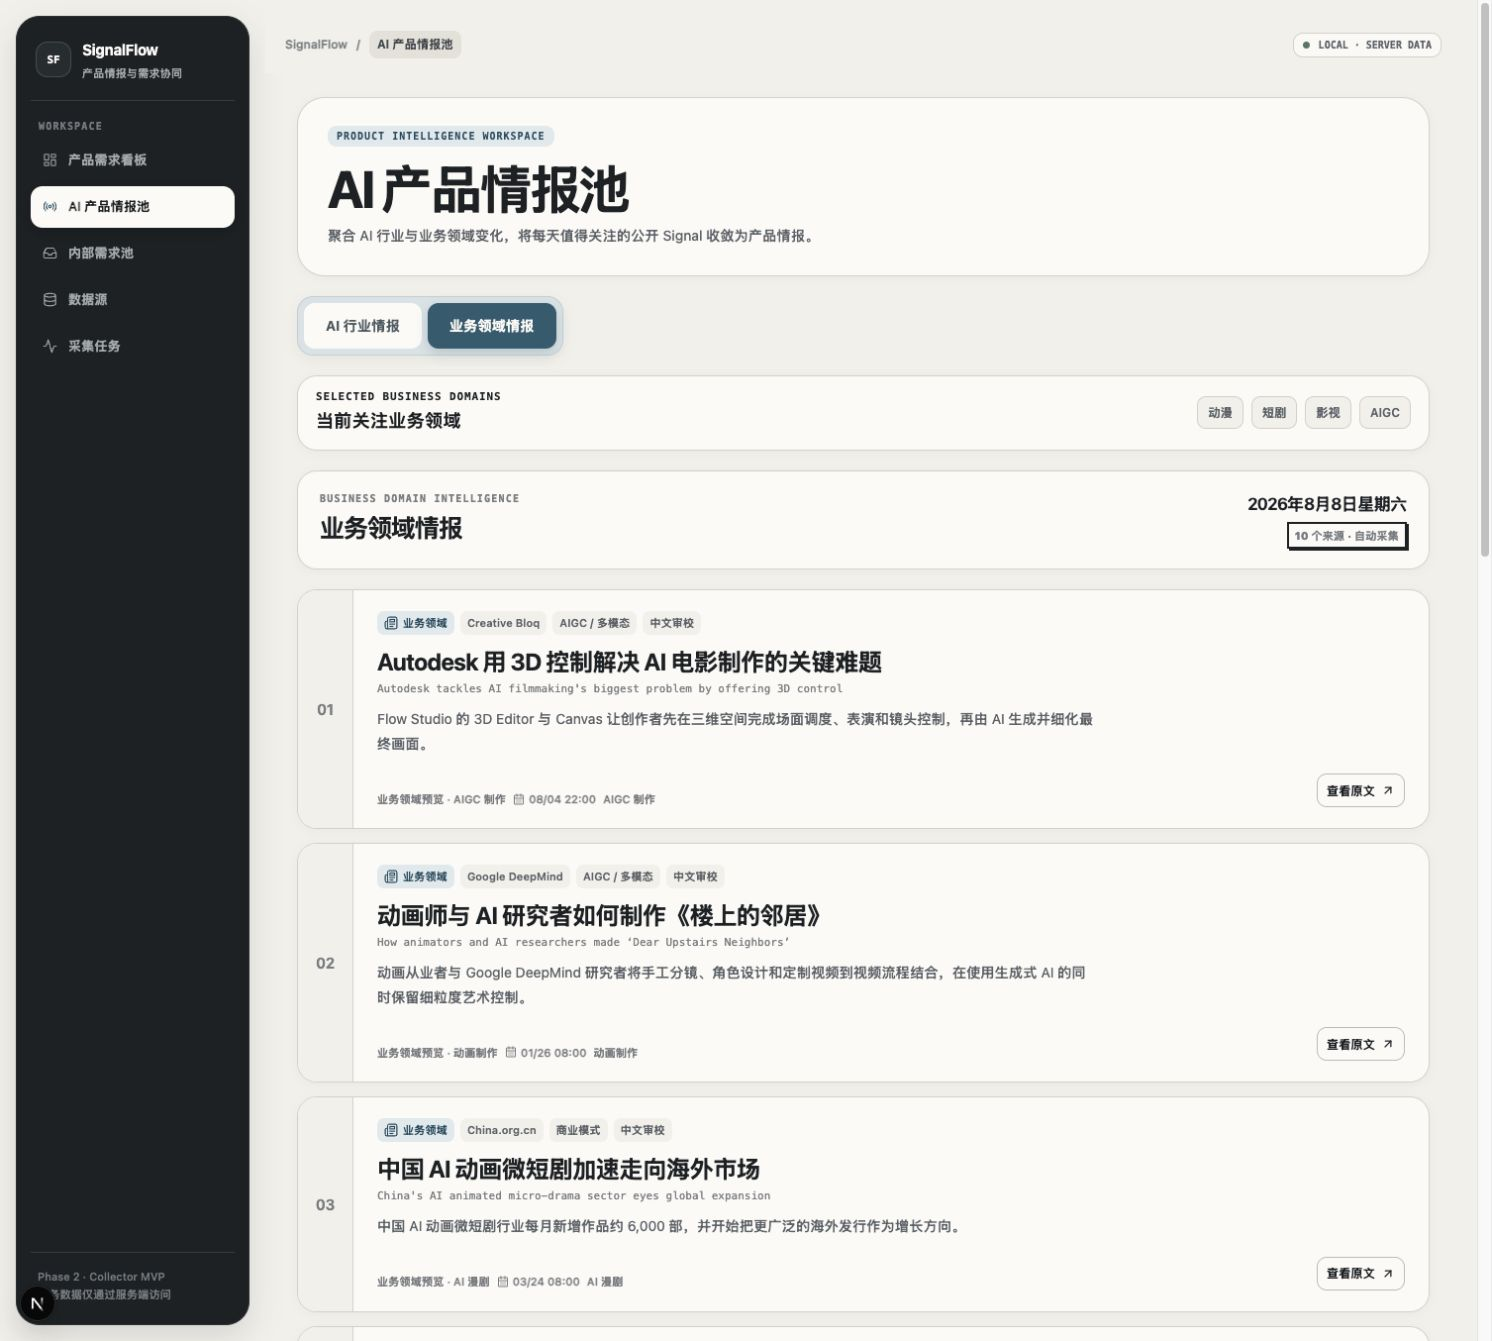
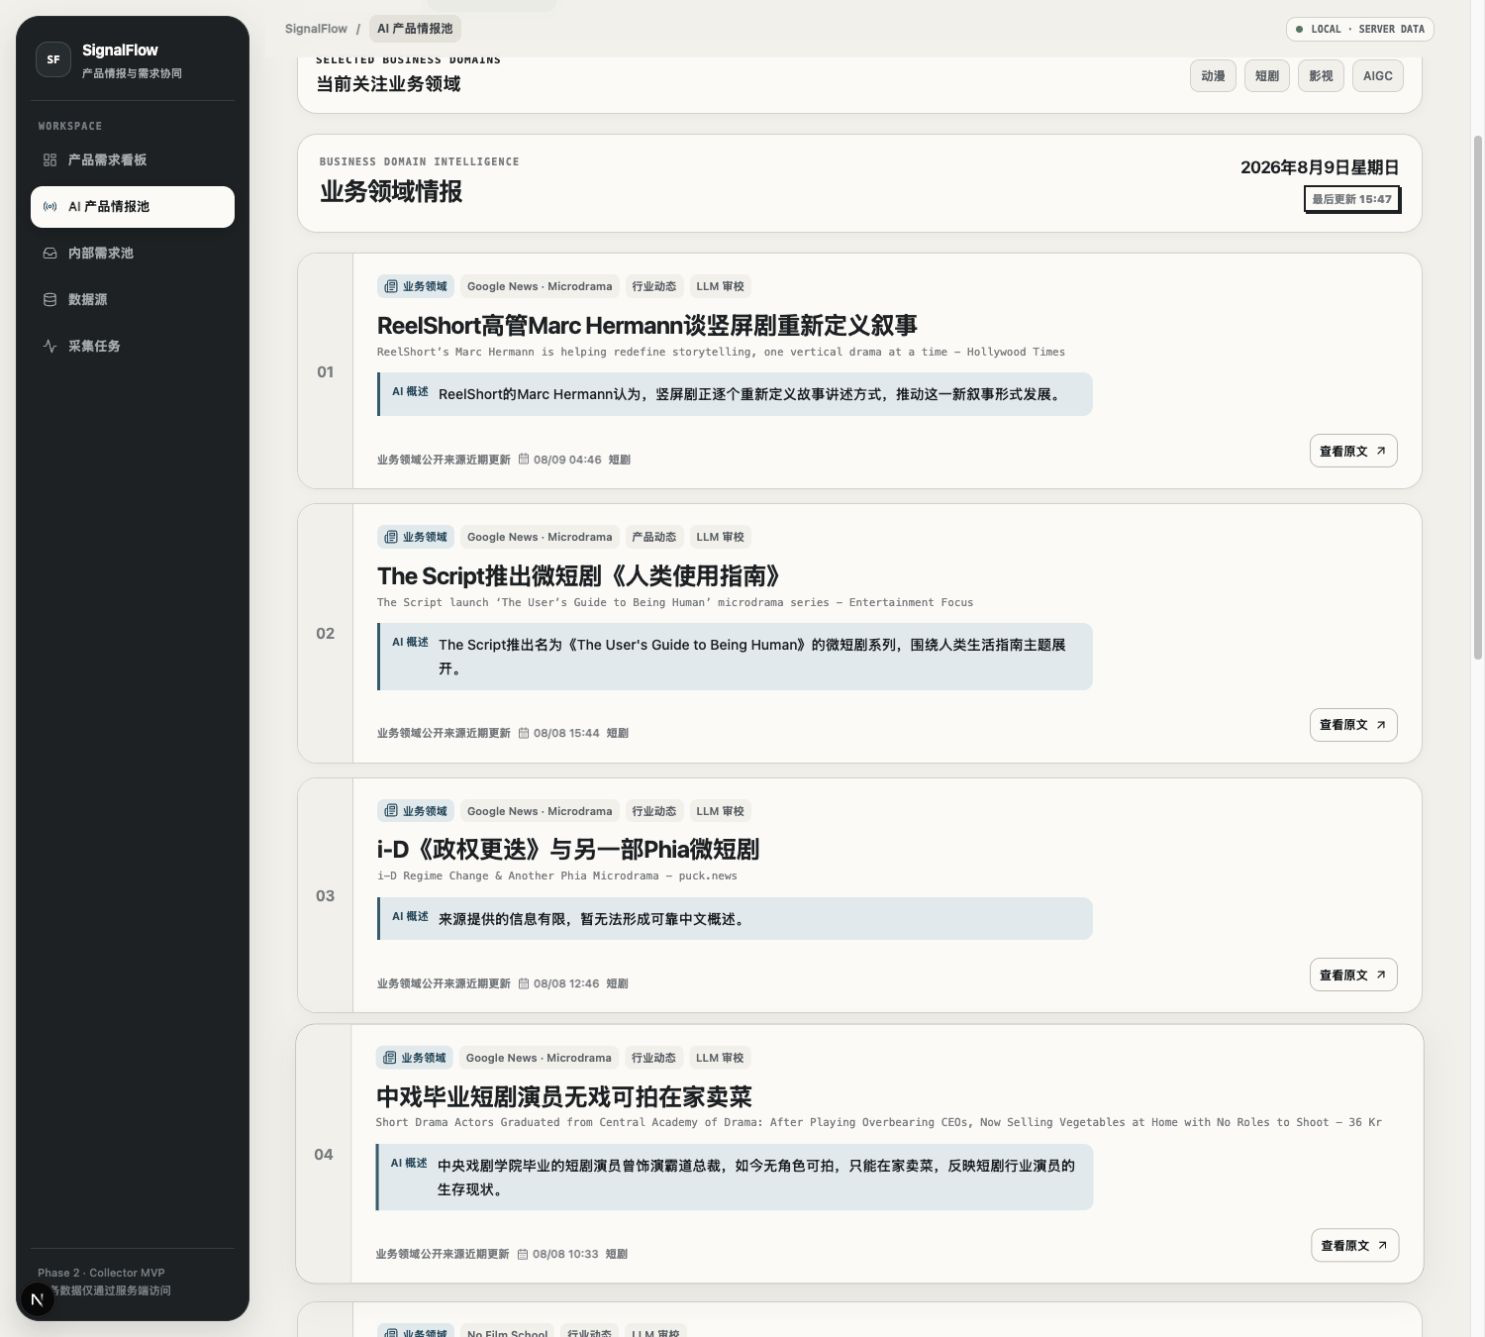
fix: align collector workflow and project documentation

diff --git a/src/collector/configuration.ts b/src/collector/configuration.ts
@@ -60,7 +60,7 @@ async function writeJson(filePath: string, value: unknown): Promise<void> {
   await fs.writeFile(filePath, `${JSON.stringify(value, null, 2)}\n`, "utf8");
 }
 
-function renderCollectorWorkflow(schedule: CollectorSchedule, track: CollectorTrack): string {
+export function renderCollectorWorkflow(schedule: CollectorSchedule, track: CollectorTrack): string {
   const [hour, minute] = schedule.time.split(":");
   const scheduleTrigger = schedule.enabled
     ? `  schedule:\n    - cron: "${minute} ${hour} * * *"\n      timezone: "${schedule.timezone}"\n`
@@ -85,23 +85,29 @@ jobs:
     steps:
       - name: Checkout repository
         uses: actions/checkout@v4
+        with:
+          fetch-depth: 0
+
+      - name: Setup Node.js
+        uses: actions/setup-node@v4
+        with:
+          node-version: 24
 
       - name: Setup pnpm
         uses: pnpm/action-setup@v4
         with:
           version: 11.16.0
 
-      - name: Setup Node.js
-        uses: actions/setup-node@v4
-        with:
-          node-version: 20
-          cache: pnpm
-
       - name: Install dependencies
         run: pnpm install --frozen-lockfile
 
       - name: Collect and save today's intelligence
         run: ${command}
+        env:
+          SIGNALFLOW_LLM_REVIEW: \${{ secrets.SIGNALFLOW_LLM_REVIEW }}
+          LLM_API_KEY: \${{ secrets.LLM_API_KEY }}
+          LLM_API_BASE_URL: \${{ secrets.LLM_API_BASE_URL }}
+          LLM_MODEL: \${{ secrets.LLM_MODEL }}
 
       - name: Commit daily snapshot
         run: |
@@ -113,7 +119,14 @@ jobs:
           git config user.email "41898282+github-actions[bot]@users.noreply.github.com"
           git add data/intelligence
           git commit -m "data: update daily intelligence"
-          git push
+          git fetch origin main
+          git rebase origin/main
+          if ! git push origin HEAD:main; then
+            echo "main changed while publishing; syncing once more."
+            git fetch origin main
+            git rebase origin/main
+            git push origin HEAD:main
+          fi
 `;
 }
 

diff --git a/src/collector/configuration.test.ts b/src/collector/configuration.test.ts
@@ -1,7 +1,7 @@
 import assert from "node:assert/strict";
 import test from "node:test";
 
-import { loadCollectorSchedule, saveCollectorSchedule, setCollectorSourceEnabled } from "./configuration";
+import { loadCollectorSchedule, renderCollectorWorkflow, saveCollectorSchedule, setCollectorSourceEnabled } from "./configuration";
 import { loadCollectorSources } from "./registry";
 
 async function withNodeEnv<T>(value: string | undefined, operation: () => T | Promise<T>): Promise<T> {
@@ -39,4 +39,19 @@ test("rejects Collector configuration writes in production", async () => {
       /read-only/,
     );
   });
+});
+
+test("renders a production-safe workflow when a local schedule is edited", () => {
+  const workflow = renderCollectorWorkflow(
+    { enabled: true, time: "08:17", timezone: "Asia/Shanghai", dailyLimit: 10 },
+    "technical",
+  );
+
+  assert.match(workflow, /cron: "17 08 \* \* \*"/);
+  assert.match(workflow, /fetch-depth: 0/);
+  assert.match(workflow, /node-version: 24/);
+  assert.match(workflow, /SIGNALFLOW_LLM_REVIEW: \$\{\{ secrets\.SIGNALFLOW_LLM_REVIEW \}\}/);
+  assert.match(workflow, /LLM_MODEL: \$\{\{ secrets\.LLM_MODEL \}\}/);
+  assert.match(workflow, /git rebase origin\/main/);
+  assert.doesNotMatch(workflow, /node-version: 20/);
 });
